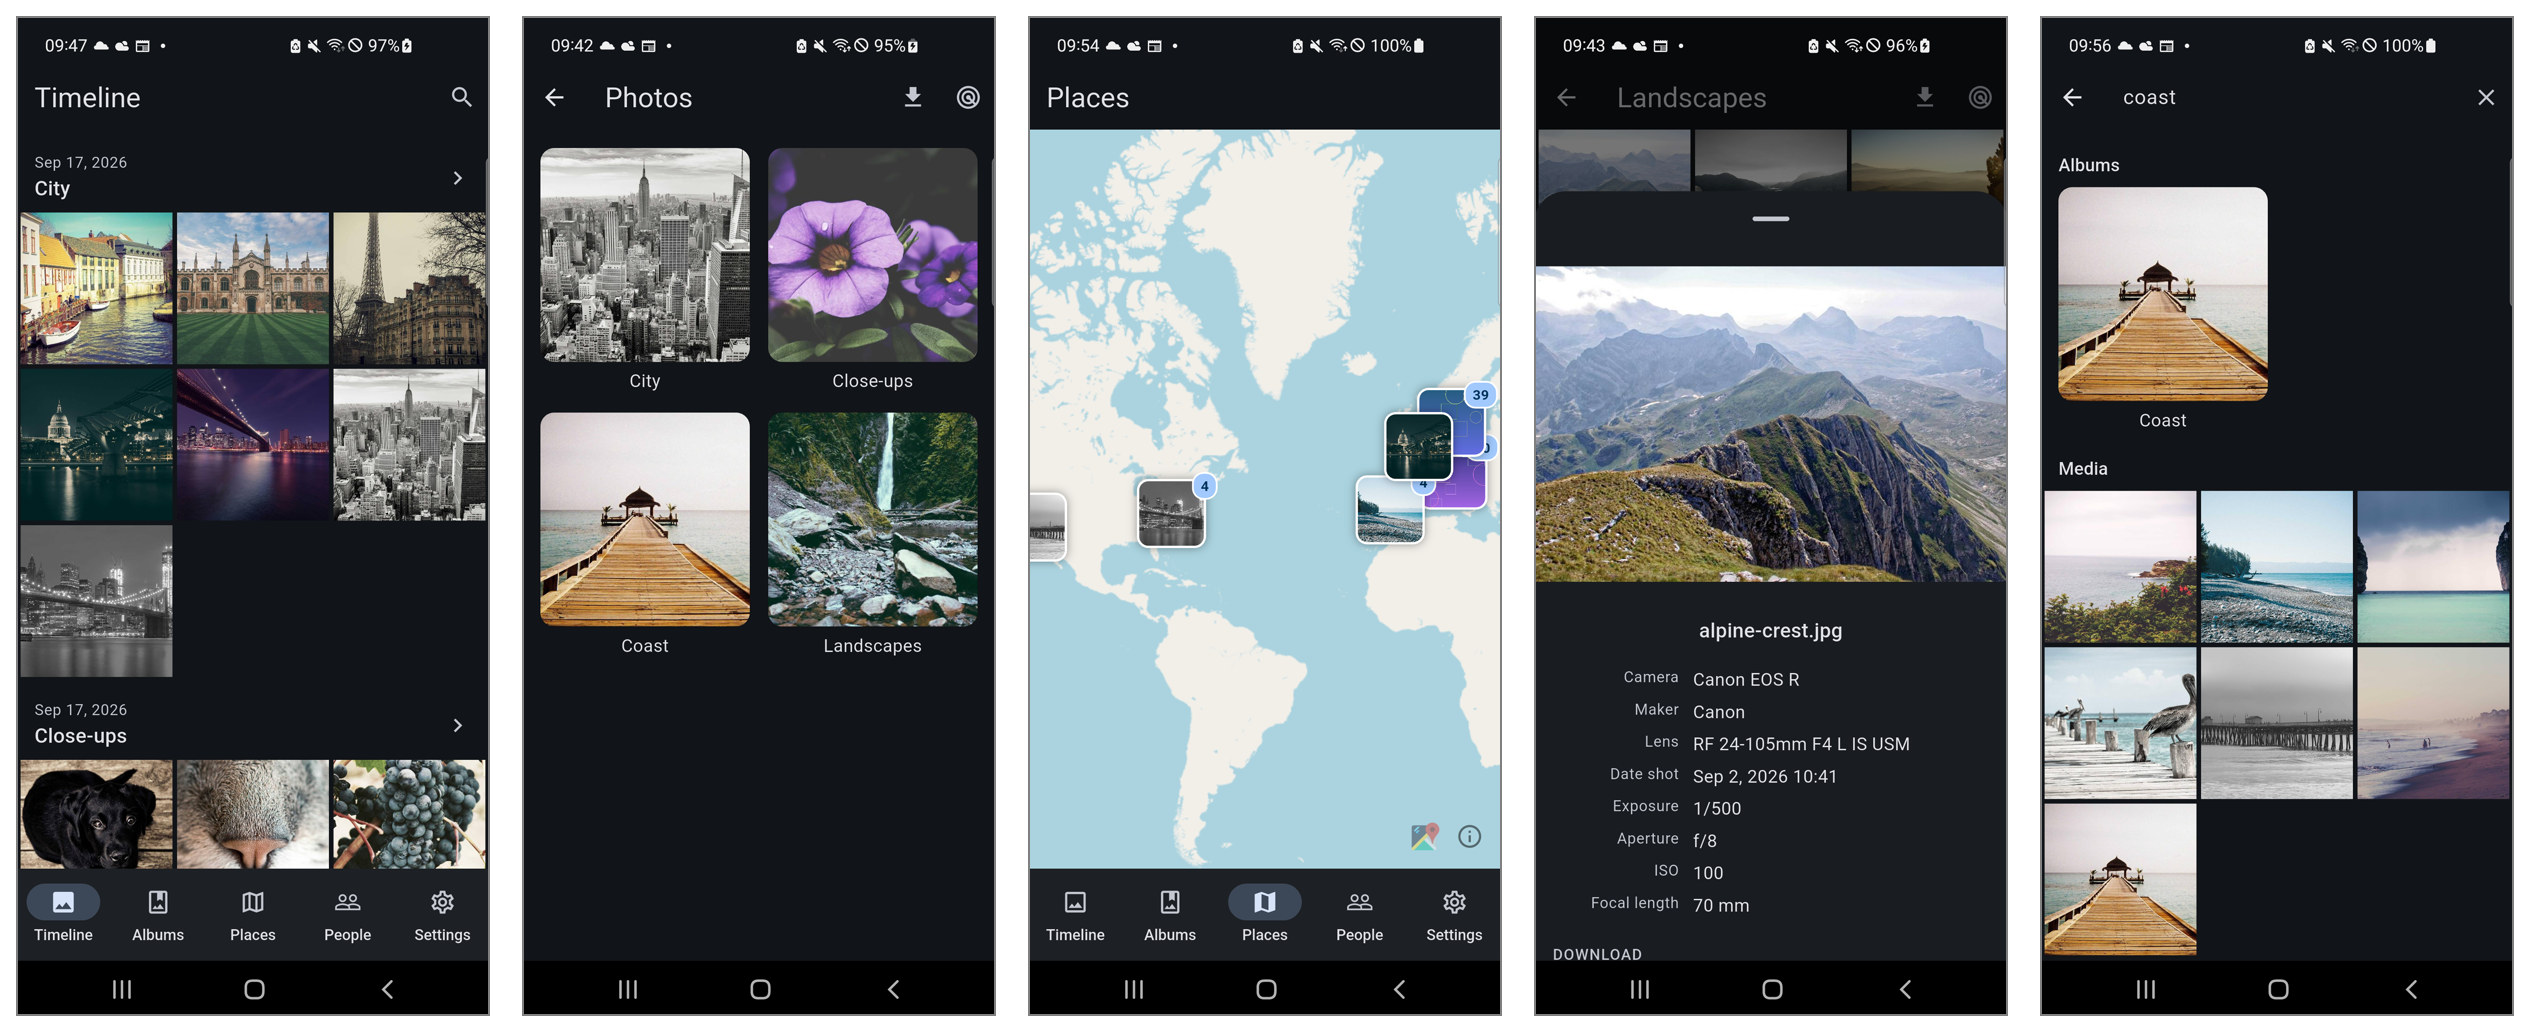
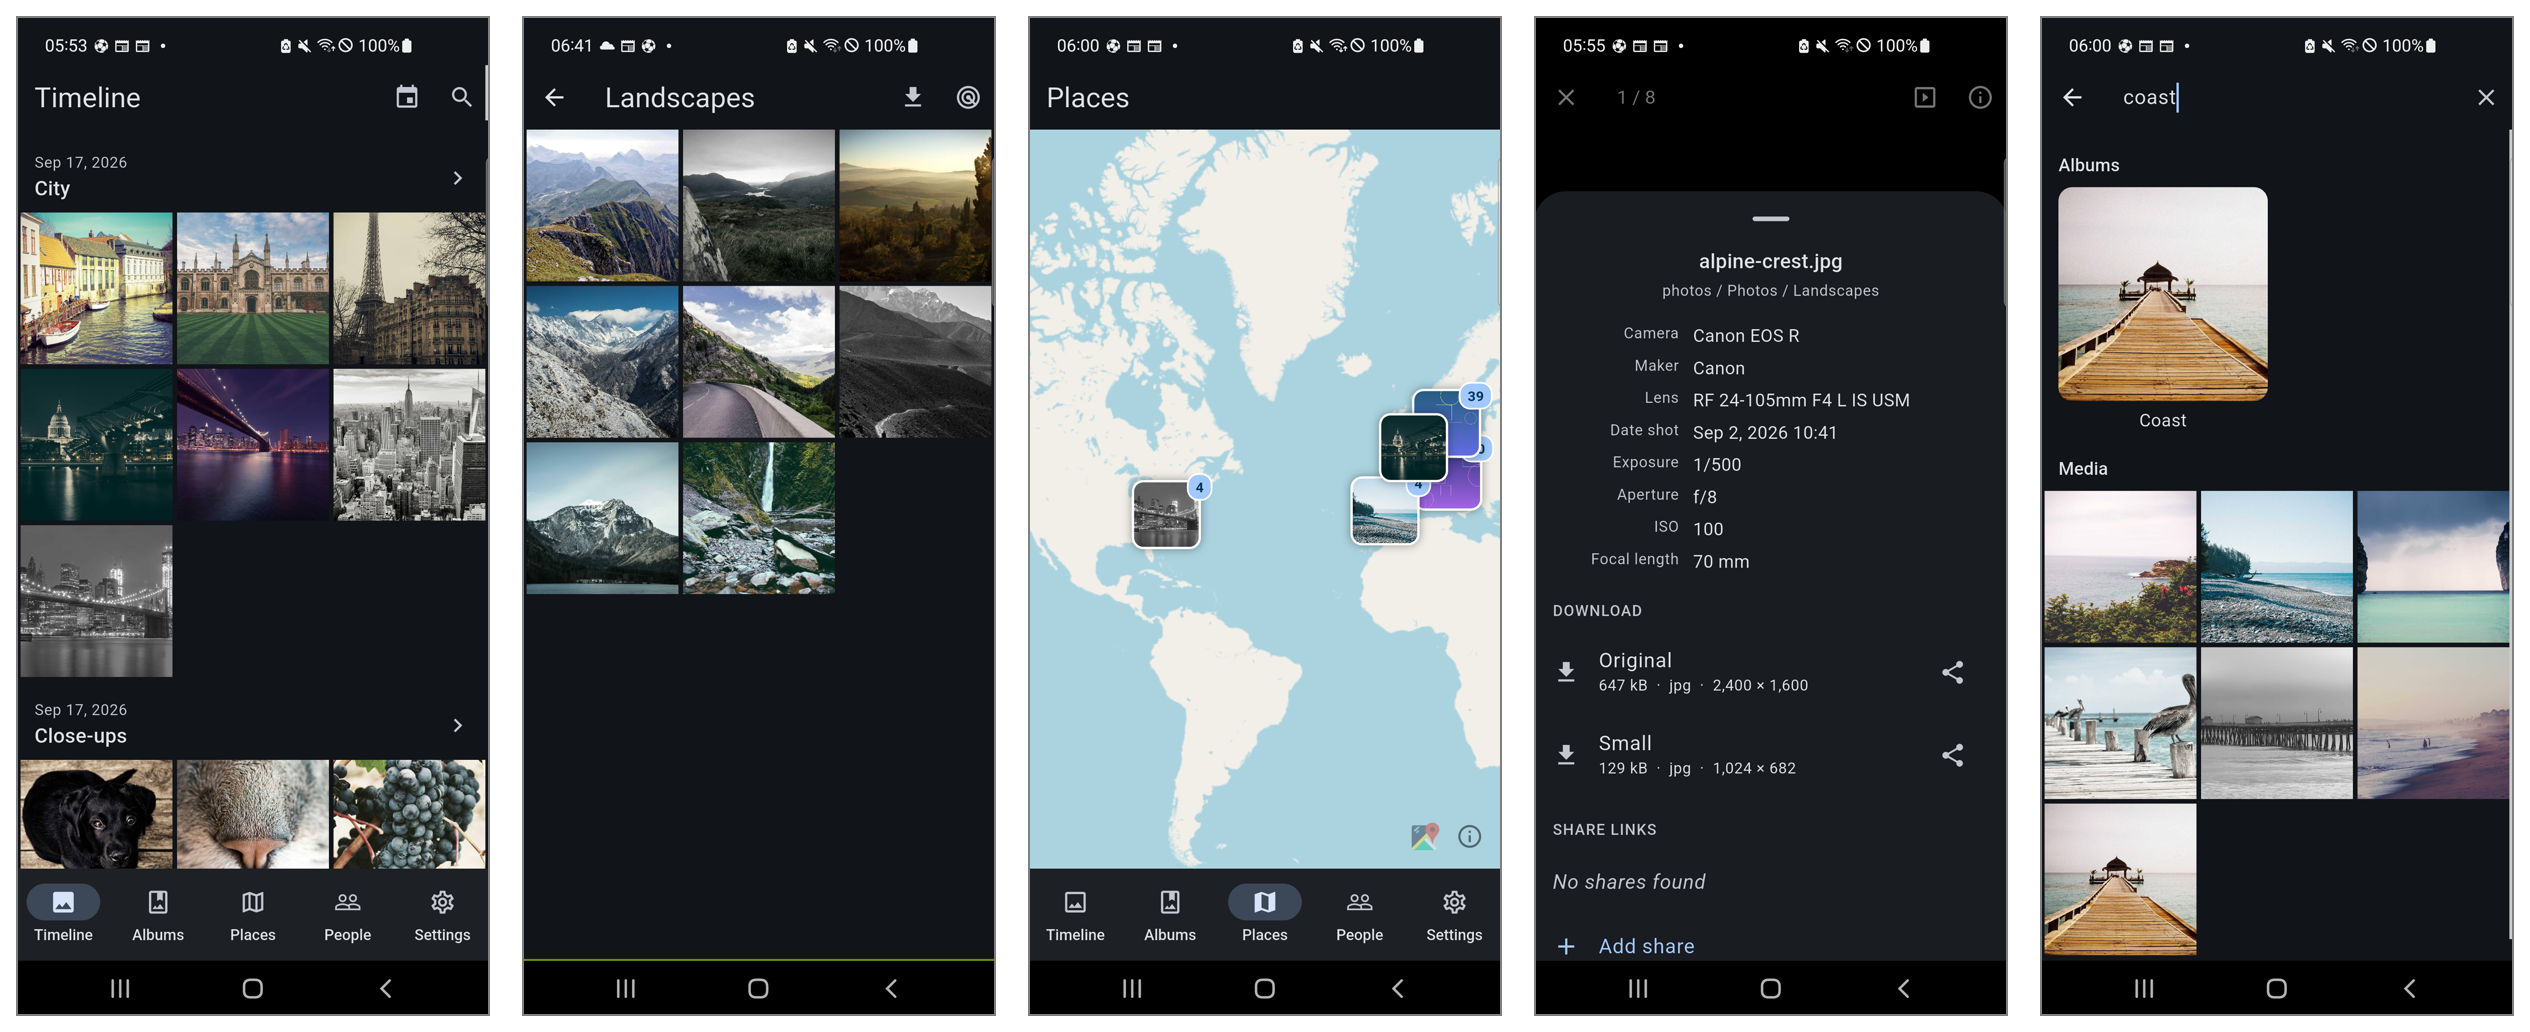
Bring the README up to what the app now does
The section was written before the last two merges, so it promised a
gallery and downloads and stopped there. Since then the app opens the
picture on a tap, runs a slideshow at a chosen interval, names people and
lists them by name, says which album a photo is in, and offers a
scrollbar and a date to jump to for libraries that do not fit on a
screen. The paragraph now says so, in two sentences rather than one
ever-growing list.

The screenshots are retaken from the merged master: the timeline shows
the date button and the scrollbar, and the details panel the album path.
The album panel shows a grid of photos rather than the folder tiles,
which keeps the portraits used to test face detection out of a public
README — they are on the test server only.

diff --git a/README.md b/README.md
@@ -16,9 +16,16 @@ SwiftUI client's `.graphql` files, so both clients speak to the server
 identically.
 
 Beyond the original it offers saved servers, private certificate authorities,
-media in search results, an album tree, scanner controls, a full-resolution
-gallery with a presentation mode, downloads, and translations in the 18
-languages of the Photoview web client.
+media in search results, an album tree, scanner controls, downloads, and
+translations in the 18 languages of the Photoview web client.
+
+Looking at photos is where it has moved furthest. A tap opens the picture at
+full resolution, with the camera data, downloads and links a button away; a
+slideshow runs on its own at an interval you choose; the details say which
+album a photo is in. People can be given names in the app rather than only in
+the web interface, and are listed by name instead of by how many photos they
+happen to appear in. For getting about a library that does not fit on a screen:
+a scrollbar to drag in every long list, and a date to jump to in the timeline.
 
 The SwiftUI app in [`Photoview/`](./Photoview) is **unchanged** and stays the
 reference the port follows. The App Store link above is for the original iOS
